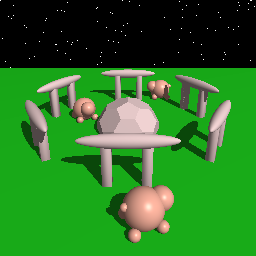
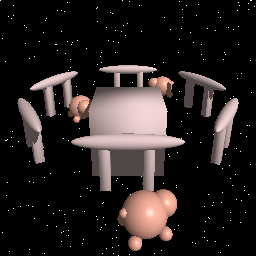
refactor

diff --git a/A4/A4.cpp b/A4/A4.cpp
@@ -6,6 +6,64 @@
 #include "PhongMaterial.hpp"
 #include "A4.hpp"
 
+glm::vec3 get_color(SceneNode *root, std::pair<glm::vec4, glm::vec4> ray, const glm::vec3 &ambient, const std::list<Light *> &lights)
+{
+    auto intersect = root->intersect(ray);
+    if (intersect)
+    {
+
+        PhongMaterial *mat = (PhongMaterial *)intersect->mat;
+        glm::vec3 light_color = ambient * mat->m_kd;
+        glm::vec3 normal = glm::normalize(glm::vec3(intersect->normal));
+        // INSERT COLOR CALCULATION HERE
+        for (auto light : lights)
+        {
+            glm::vec3 light_pos = glm::vec3(light->position);
+            auto corrected_intersect = intersect->point + 0.001 * intersect->normal;
+            glm::vec3 light_dir = glm::normalize(light_pos - glm::vec3(corrected_intersect));
+            // light_color = normal;
+            // Shadow check
+            auto shadow_ray = std::make_pair(corrected_intersect, glm::vec4(light_pos, 1.0));
+            auto shadow_intersect = root->intersect(shadow_ray);
+            if (
+                !shadow_intersect || glm::distance(glm::vec3(shadow_intersect->point), light_pos) > glm::distance(glm::vec3(intersect->point), light_pos))
+            { // If there's no intersection, it's not in shadow
+
+                // Diffuse reflection
+                double diffuse_intensity = std::max((double)glm::dot(normal, light_dir), 0.0);
+                glm::vec3 diffuse_term = mat->m_kd * light->colour * diffuse_intensity;
+
+                // Specular reflection
+                glm::vec3 view_dir = glm::normalize(glm::vec3(ray.first - intersect->point));
+                glm::vec3 reflect_dir = glm::reflect(-light_dir, normal);
+                double specular_intensity = std::pow(std::max((double)glm::dot(view_dir, reflect_dir), 0.0), mat->m_shininess);
+                glm::vec3 specular_term = mat->m_ks * light->colour * specular_intensity;
+
+                // Accumulate color
+                light_color += diffuse_term + specular_term;
+            }
+            if (shadow_intersect)
+            {
+                delete shadow_intersect;
+            }
+        }
+        delete intersect;
+        return light_color;
+    }
+    else
+    {
+        auto probability_of_star = 0.005;
+        if ((double)rand() / RAND_MAX < probability_of_star)
+        {
+            return glm::vec3(1.0);
+        }
+        else
+        {
+            return glm::vec3(0.0);
+        }
+    }
+}
+
 void A4_Render(
     // What to render
     SceneNode *root,
@@ -67,87 +125,10 @@ void A4_Render(
             glm::vec3 pixel = pixel00 + (x * pixel_delta_x) + (y * pixel_delta_y);
 
             std::pair<glm::vec4, glm::vec4> ray = std::make_pair(glm::vec4(eye, 1), glm::vec4(pixel, 1));
-            // std::cout << glm::to_string(ray.first) << std::endl;
-            auto intersect = root->intersect(std::make_pair(root->invtrans * ray.first, root->invtrans * ray.second));
-            if (intersect)
-            {
-
-                PhongMaterial *mat = (PhongMaterial *)intersect->mat;
-                glm::vec3 light_color = ambient * mat->m_kd;
-                glm::vec3 normal = glm::normalize(glm::vec3(intersect->normal));
-                // INSERT COLOR CALCULATION HERE
-                for (auto light : lights)
-                {
-                    glm::vec3 light_pos = glm::vec3(light->position);
-                    glm::vec3 light_dir = glm::normalize(light_pos - glm::vec3(intersect->point));
-                    // light_color = normal;
-                    // Shadow check
-                    auto shadow_ray = std::make_pair(root->invtrans * intersect->point, root->invtrans * glm::vec4(light_pos, 1.0));
-                    auto shadow_intersect = root->intersect(shadow_ray);
-                    if (
-                        !shadow_intersect || glm::distance(glm::vec3(shadow_intersect->point), light_pos) > glm::distance(glm::vec3(intersect->point), light_pos) || glm::distance(shadow_intersect->point, intersect->point) < 0.0006)
-                    { // If there's no intersection, it's not in shadow
-
-                        // Diffuse reflection
-                        double diffuse_intensity = std::max((double)glm::dot(normal, light_dir), 0.0);
-                        glm::vec3 diffuse_term = mat->m_kd * light->colour * diffuse_intensity;
-
-                        // Specular reflection
-                        glm::vec3 view_dir = glm::normalize(eye - glm::vec3(intersect->point));
-                        glm::vec3 reflect_dir = glm::reflect(-light_dir, normal);
-                        double specular_intensity = std::pow(std::max((double)glm::dot(view_dir, reflect_dir), 0.0), mat->m_shininess);
-                        glm::vec3 specular_term = mat->m_ks * light->colour * specular_intensity;
-
-                        // Accumulate color
-                        light_color += diffuse_term + specular_term;
-                    }
-                    // else
-                    // {
-                    //     std::cout << "----------------" << std::endl;
-                    //     std::cout << glm::to_string(shadow_intersect->point) << std::endl;
-                    //     std::cout << glm::to_string(intersect->point) << std::endl;
-                    //     std::cout << glm::to_string(light_pos) << std::endl;
-                    //     std::cout << glm::to_string(light_dir) << std::endl;
-                    //     std::cout << "----------------" << std::endl;
-                    // }
-                }
-                // glm::vec3 ambient_term = mat->m_kd * ambient;
-                // light_color += ambient_term;
-                // Red:
-                image(x, y, 0) = double(light_color.r);
-                // Green:
-                image(x, y, 1) = double(light_color.g);
-                // Blue:
-                image(x, y, 2) = double(light_color.b);
-
-                // PhongMaterial *mat = (PhongMaterial *)intersect->mat;
-                // image(x, y, 0) = (double)mat->m_kd.r;
-                // // Green:
-                // image(x, y, 1) = (double)mat->m_kd.g;
-                // // Blue:
-                // image(x, y, 2) = (double)mat->m_kd.b;
-            }
-            else
-            {
-                auto probability_of_star = 0.005;
-                if ((double)rand() / RAND_MAX < probability_of_star)
-                {
-                    image(x, y, 0) = double(1);
-                    // Green:
-                    image(x, y, 1) = double(1);
-                    // Blue:
-                    image(x, y, 2) = double(1);
-                }
-                else
-                {
-                    // Red:
-                    image(x, y, 0) = double(0);
-                    // Green:
-                    image(x, y, 1) = double(0);
-                    // Blue:
-                    image(x, y, 2) = double(0);
-                }
-            }
+            auto color = get_color(root, ray, ambient, lights);
+            image(x, y, 0) = color.r;
+            image(x, y, 1) = color.g;
+            image(x, y, 2) = color.b;
         }
         std::clog << "\rProgress: " << std::setprecision(2) << std::fixed << ((y * w) / total_pixels) * 100 << "% " << std::flush;
     }

diff --git a/A4/GeometryNode.cpp b/A4/GeometryNode.cpp
@@ -13,15 +13,18 @@ GeometryNode::GeometryNode(
 
 Intersection *GeometryNode::intersect(std::pair<glm::vec4, glm::vec4> ray)
 {
+    ray.first = invtrans * ray.first;
+    ray.second = invtrans * ray.second;
     std::vector<Intersection *> intersections;
     auto intersect_point = m_primitive->intersect(ray);
     if (intersect_point)
     {
         intersections.push_back(new Intersection(intersect_point->first, m_material, intersect_point->second));
+        delete intersect_point;
     }
     for (auto child : children)
     {
-        intersections.push_back(child->intersect(std::make_pair(child->invtrans * ray.first, child->invtrans * ray.second)));
+        intersections.push_back(child->intersect(std::make_pair(ray.first, ray.second)));
     }
     double closest_distance = DBL_MAX;
     Intersection *intersect = nullptr;
@@ -30,14 +33,18 @@ Intersection *GeometryNode::intersect(std::pair<glm::vec4, glm::vec4> ray)
     {
         if (!intersection || glm::dot(intersection->point - ray.first, ray.second - ray.first) < 0)
         {
+            delete intersection;
             continue;
         }
         double distance = glm::distance(ray.first, intersection->point);
         if (distance < closest_distance)
         {
-            // std::cout << glm::to_string(*intersection) << std::endl;
             intersect = intersection;
             closest_distance = distance;
+        }
+        else
+        {
+            delete intersection;
         }
     }
     if (intersect)
@@ -45,7 +52,6 @@ Intersection *GeometryNode::intersect(std::pair<glm::vec4, glm::vec4> ray)
         intersect->point = trans * intersect->point;
         intersect->normal = glm::vec4(glm::mat3(glm::transpose(invtrans)) * glm::vec3(intersect->normal), 0.0);
     }
-    // std::cout << intersect << std::endl;
     return intersect;
 }
 

diff --git a/A4/SceneNode.cpp b/A4/SceneNode.cpp
@@ -150,10 +150,12 @@ std::ostream &operator<<(std::ostream &os, const SceneNode &node)
 
 Intersection *SceneNode::intersect(std::pair<glm::vec4, glm::vec4> ray)
 {
+    ray.first = invtrans * ray.first;
+    ray.second = invtrans * ray.second;
     std::vector<Intersection *> intersections;
     for (auto child : children)
     {
-        intersections.push_back(child->intersect(std::make_pair(child->invtrans * ray.first, child->invtrans * ray.second)));
+        intersections.push_back(child->intersect(ray));
     }
     double closest_distance = DBL_MAX;
     Intersection *intersect = nullptr;
@@ -162,14 +164,18 @@ Intersection *SceneNode::intersect(std::pair<glm::vec4, glm::vec4> ray)
     {
         if (!intersection || glm::dot(intersection->point - ray.first, ray.second - ray.first) < 0)
         {
+            delete intersection;
             continue;
         }
         double distance = glm::distance(ray.first, intersection->point);
         if (distance < closest_distance)
         {
-            // std::cout << glm::to_string(*intersection) << std::endl;
             intersect = intersection;
             closest_distance = distance;
+        }
+        else
+        {
+            delete intersection;
         }
     }
     if (intersect)
@@ -178,7 +184,5 @@ Intersection *SceneNode::intersect(std::pair<glm::vec4, glm::vec4> ray)
         intersect->normal = glm::vec4(glm::mat3(glm::transpose(invtrans)) * glm::vec3(intersect->normal), 0.0);
     }
 
-    // std::cout << intersect << std::endl;
-    // test
     return intersect;
 }

diff --git a/A4/A4.hpp b/A4/A4.hpp
@@ -8,20 +8,21 @@
 #include "Light.hpp"
 #include "Image.hpp"
 
+glm::vec3 get_color(SceneNode *root, std::pair<glm::vec4, glm::vec4> ray, const glm::vec3 &ambient, const std::list<Light *> &lights);
+
 void A4_Render(
-		// What to render
-		SceneNode * root,
+	// What to render
+	SceneNode *root,
 
-		// Image to write to, set to a given width and height
-		Image & image,
+	// Image to write to, set to a given width and height
+	Image &image,
 
-		// Viewing parameters
-		const glm::vec3 & eye,
-		const glm::vec3 & view,
-		const glm::vec3 & up,
-		double fovy,
+	// Viewing parameters
+	const glm::vec3 &eye,
+	const glm::vec3 &view,
+	const glm::vec3 &up,
+	double fovy,
 
-		// Lighting parameters
-		const glm::vec3 & ambient,
-		const std::list<Light *> & lights
-);
+	// Lighting parameters
+	const glm::vec3 &ambient,
+	const std::list<Light *> &lights);

diff --git a/A4/Mesh.cpp b/A4/Mesh.cpp
@@ -65,10 +65,15 @@ Mesh::Mesh(const std::string &fname)
 
 std::pair<glm::vec4, glm::vec4> *Mesh::intersect(std::pair<glm::vec4, glm::vec4> ray)
 {
-	if (!bounding_box.intersect(ray))
+	auto bounding_intersect = bounding_box.intersect(ray);
+	if (!bounding_intersect)
 	{
 		return nullptr;
 	}
+#ifdef RENDER_BOUNDING_VOLUMES
+	return bounding_intersect;
+#endif
+	delete bounding_intersect;
 	auto epsilon = 0.000001;
 	auto total_faces = m_faces.size();
 	auto origin = glm::vec3(ray.first);
